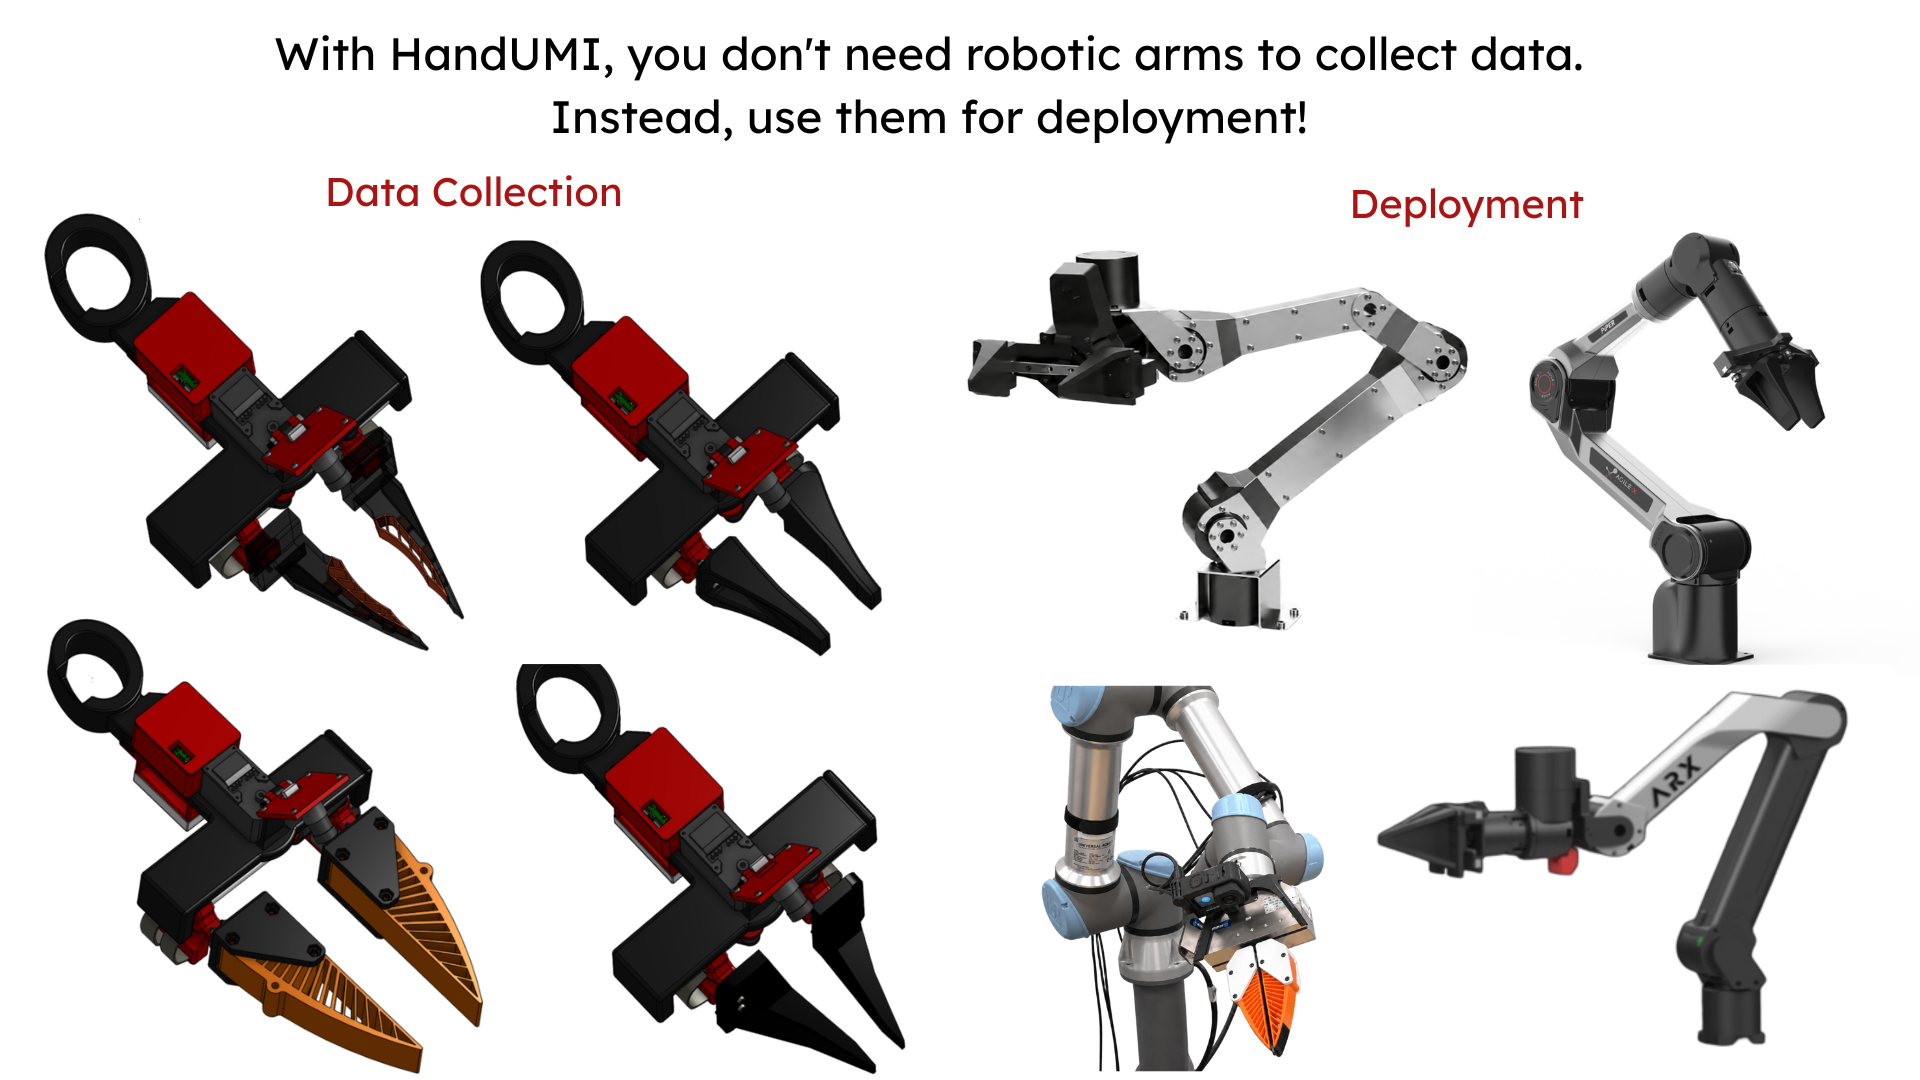
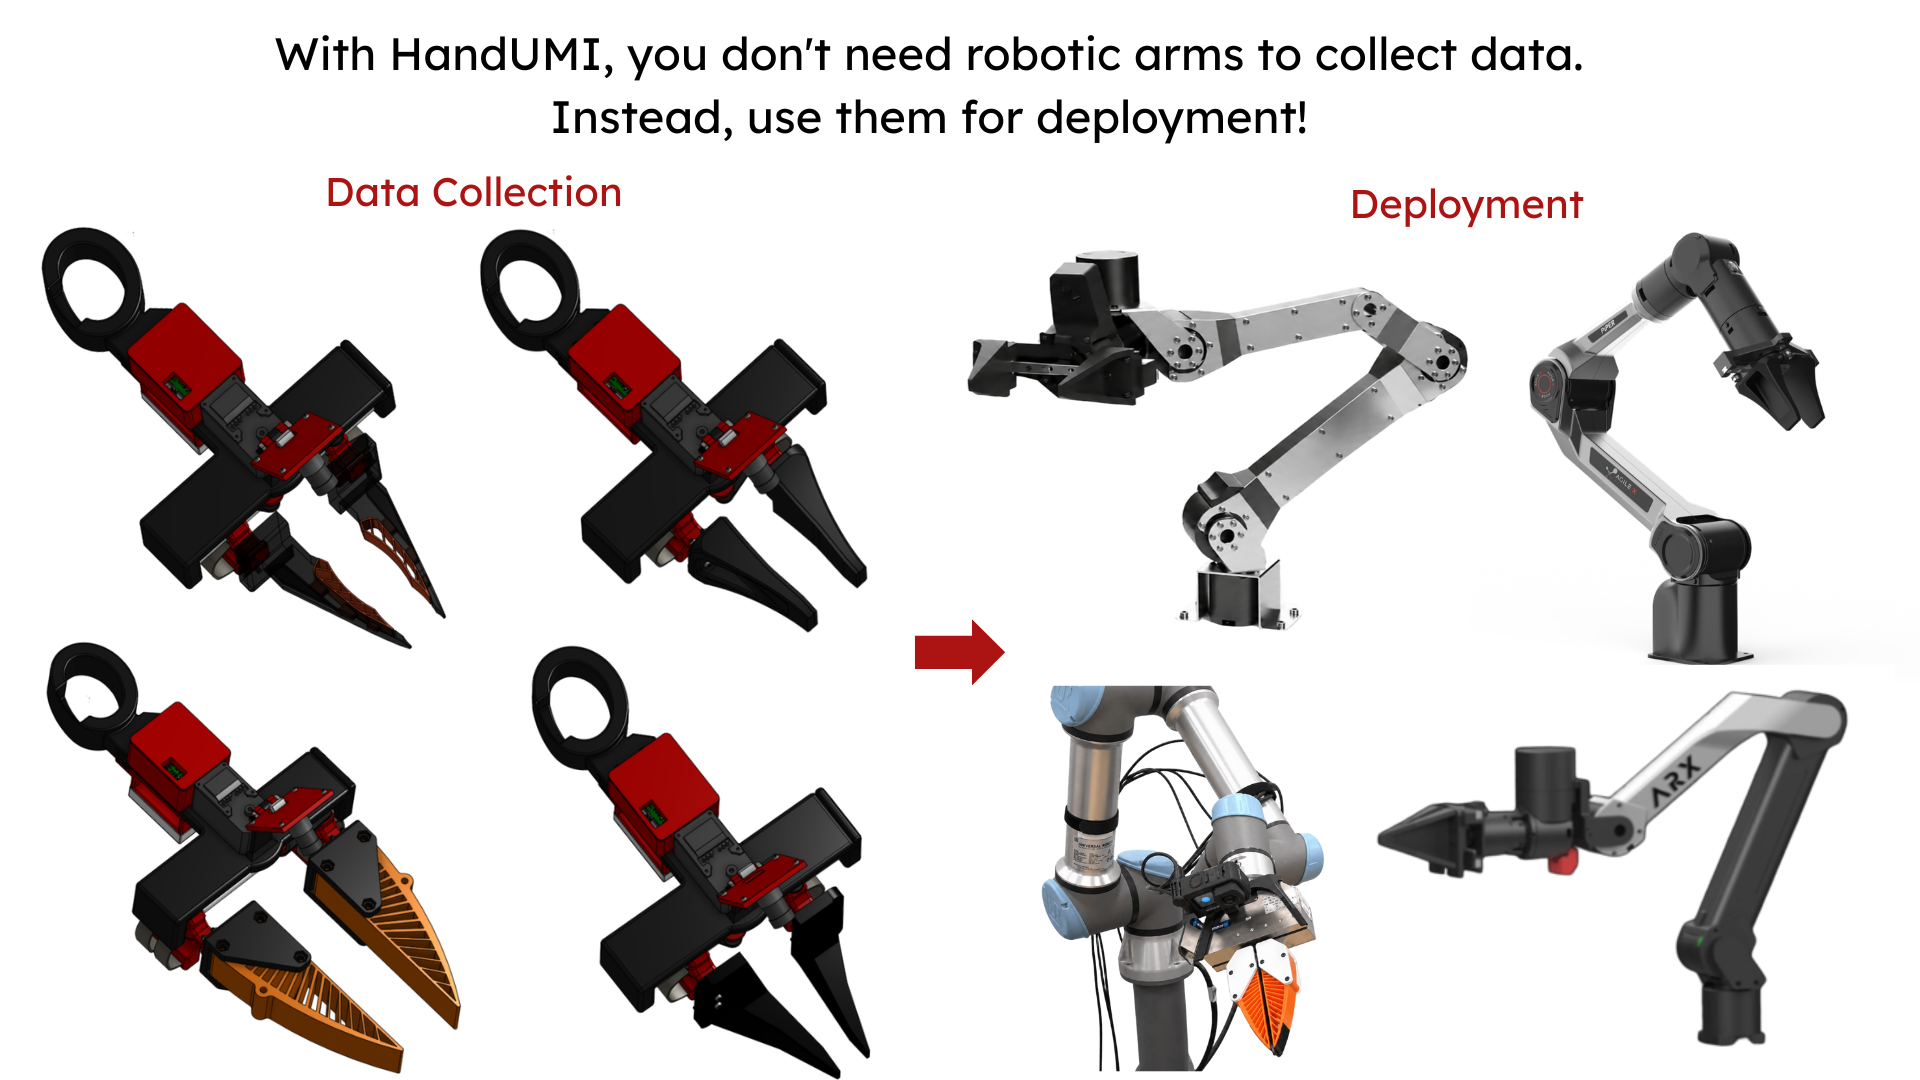
modular image updated and software added to the README

diff --git a/README.md b/README.md
@@ -2,6 +2,8 @@
 
 <p align="center">
   <a href="LICENSE"><img src="https://img.shields.io/badge/License-Apache_2.0-blue.svg" alt="License: Apache 2.0"></a>
+  <a href="https://github.com/robonet-ai/handumi-sw"><img src="https://img.shields.io/badge/Software-handumi--sw-4c8bf5.svg" alt="HandUMI software"></a>
+  <a href="https://robonet-ai.github.io/handumi-sw/"><img src="https://img.shields.io/badge/Docs-GitHub_Pages-AF0000.svg" alt="HandUMI documentation on GitHub Pages"></a>
 </p>
 
 <p align="center">